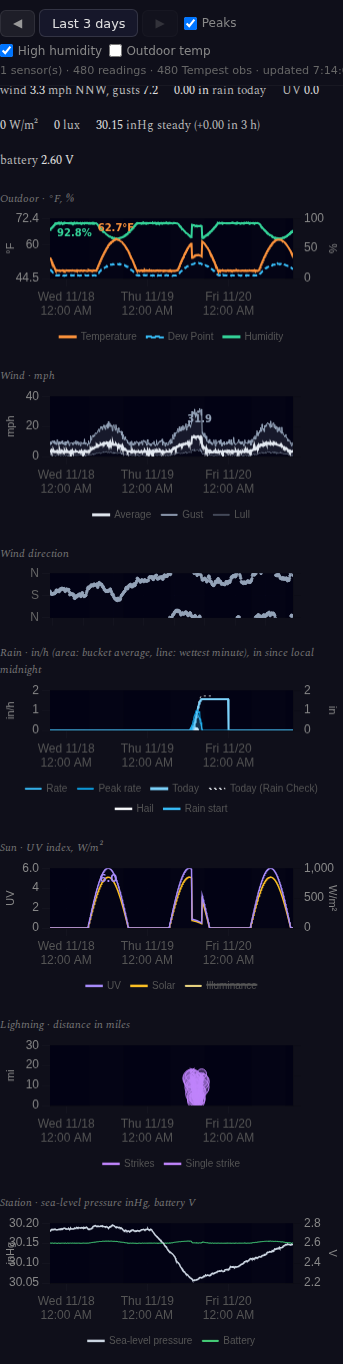
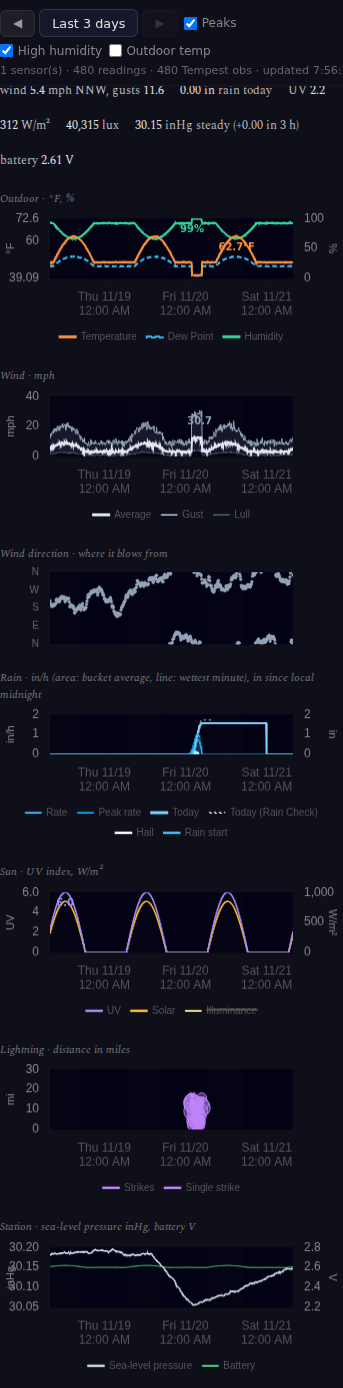
Label every compass point on the wind direction strip; release 1.2.1
The strip's axis used stepSize 180, so Chart.js drew ticks only at 0, 180
and 360 (N, S, N). An easterly sat in the same unlabelled band a
westerly would, which read as northerly or mirrored. The data was right
at every layer: stored, served, downsampled and in the strip text.

- pin the ticks at 0/90/180/270/360 with N, E, S, W, N labels, degrees
  increasing upward; make the strip tall enough for five labels on
  phones
- say the strip shows where the wind blows from, in the label and the
  tooltip ("From: 70° ENE")
- regression tests for the ticks and orientation, and for the vector
  mean on an easterly bucket

diff --git a/frontend/src/tempest-card.js b/frontend/src/tempest-card.js
@@ -31,7 +31,7 @@ export const TEMPEST_COLORS = {
 const LABELS = {
     outdoor: 'Outdoor · °F, %',
     wind: 'Wind · mph',
-    direction: 'Wind direction',
+    direction: 'Wind direction · where it blows from',
     rain: 'Rain · in/h (area: bucket average, line: wettest minute), in since local midnight',
     sun: 'Sun · UV index, W/m²',
     lightning: 'Lightning · distance in miles',
@@ -97,11 +97,18 @@ export function tempestPanelOpts(panel, ar) {
         // A thin strip: direction needs a compass axis, not the speed axis.
         // The wind panel right above labels the shared time axis, so the
         // strip hides its own time labels and gives the height to the plot.
-        aspect = secondaryAspect(ar) * 2.2;
+        // Tall enough for all five compass labels: on a phone that is
+        // about 90 px, on desktop about 100.
+        aspect = ar >= 4 ? secondaryAspect(ar) * 1.8 : ar * 1.6;
         scales.x.ticks = { ...scales.x.ticks, display: false };
+        // Degrees increase upward (N at the bottom, E, S, W, N at the top).
+        // The ticks are pinned: with a step size Chart.js would label only
+        // some cardinal points, and without E and W an easterly and a
+        // westerly look alike.
         scales.yDir = axis('left', '', {
             min: 0, max: 360,
-            ticks: { color: '#666', stepSize: 180, autoSkip: false, callback: (val) => DIRS[val] ?? '' },
+            ticks: { color: '#666', autoSkip: false, font: { size: 10 }, callback: (val) => DIRS[val] ?? '' },
+            afterBuildTicks: (scale) => { scale.ticks = [0, 90, 180, 270, 360].map(value => ({ value })); },
         });
         scales.yDirR = axis('right', '', { display: true, ticks: { display: false }, grid: { drawOnChartArea: false } });
         break;
@@ -185,7 +192,7 @@ export function buildTempestDatasets(panel, s, ev) {
         ];
     case 'direction':
         return [{
-            key: 'direction', label: 'Direction', data: s.windDir, yAxisID: 'yDir', borderColor: TEMPEST_COLORS.windDir, backgroundColor: TEMPEST_COLORS.windDir,
+            key: 'direction', label: 'From', data: s.windDir, yAxisID: 'yDir', borderColor: TEMPEST_COLORS.windDir, backgroundColor: TEMPEST_COLORS.windDir,
             showLine: false, pointRadius: 1.2, pointHoverRadius: 3, noPeaks: true,
             tooltipFormat: (val) => `${Math.round(val)}° ${cardinal(val)}`,
         }];

diff --git a/frontend/src/__tests__/tempest-card.test.js b/frontend/src/__tests__/tempest-card.test.js
@@ -128,3 +128,44 @@ describe('wind direction strip', () => {
         expect(343 / tempestPanelOpts('direction', 2.4).aspectRatio).toBeGreaterThanOrEqual(60);
     });
 });
+
+// Regression: the strip used stepSize 180, so Chart.js drew ticks only at
+// 0/180/360 (N, S, N). An easterly (e.g. 70°) sat in the same unlabelled band
+// a westerly would, a fifth of the way up from "N", which read as northerly
+// or mirrored. Every cardinal point must be labelled.
+describe('wind direction axis', () => {
+    const yDir = () => tempestPanelOpts('direction', 4).scales.yDir;
+
+    it('labels N, E, S, W and N at 0, 90, 180, 270, 360', () => {
+        const scale = { ticks: [{ value: 0 }, { value: 180 }, { value: 360 }] };
+        yDir().afterBuildTicks(scale);
+        const cb = yDir().ticks.callback;
+        expect(scale.ticks.map(t => [t.value, cb(t.value)])).toEqual([
+            [0, 'N'], [90, 'E'], [180, 'S'], [270, 'W'], [360, 'N'],
+        ]);
+    });
+
+    it('increases upward, so east sits below south and west above it', () => {
+        const opts = yDir();
+        expect(opts.reverse).toBeFalsy();
+        expect(opts.min).toBe(0);
+        expect(opts.max).toBe(360);
+    });
+
+    it('says the direction is where the wind blows from', () => {
+        const { section } = render({ enabled: true, station: { name: 'Home' }, observations: [ob(0, { wind_avg_ms: 1, wind_direction_deg: 70 })], latest: null, events: [] });
+        const label = section.querySelector('.tempest-panel[data-panel="direction"] .panel-label').textContent;
+        expect(label).toMatch(/from/i);
+    });
+
+    it('has room for five labels on a phone', () => {
+        // 343 px plot width on a 375 px screen; five 10 px labels need ~85 px.
+        expect(343 / tempestPanelOpts('direction', 2.4).aspectRatio).toBeGreaterThanOrEqual(85);
+    });
+
+    it('tooltips name the compass point the wind comes from', () => {
+        const { panel } = render({ enabled: true, station: { name: 'Home' }, observations: [ob(0, { wind_avg_ms: 1, wind_direction_deg: 70 })], latest: null, events: [] });
+        const ds = panel('direction').chart.data.datasets[0];
+        expect(tooltipLabel({ dataset: ds, raw: ds.data[0], parsed: { y: 70 } })).toBe('From: 70° ENE');
+    });
+});

diff --git a/tempest_capture_test.go b/tempest_capture_test.go
@@ -684,3 +684,23 @@ func TestDownsampleTempest_DailyTotalAcrossMidnightKeepsDayTotal(t *testing.T) {
 		t.Errorf("rain max = %v, want 0.4", ptrVal(got[0].RainMaxMM))
 	}
 }
+
+// Values from a real 9-minute bucket of light easterly wind: the served mean
+// must be the speed-weighted vector mean, ~70.7° (ENE), not mirrored (~290°)
+// or rotated. Pins the sin/cos/atan2 argument order and normalisation.
+func TestVectorMeanDirection_EasterlyBucket(t *testing.T) {
+	dirs := []float64{38, 59, 79, 72, 75, 93, 69, 65, 73}
+	speeds := []float64{0.6, 0.6, 0.9, 0.6, 0.4, 0.6, 0.6, 0.6, 0.8}
+	var recs []tempest.Observation
+	for i := range dirs {
+		recs = append(recs, tempest.Observation{WindDirectionDeg: fp(dirs[i]), WindAvgMS: fp(speeds[i])})
+	}
+	got := vectorMeanDirection(recs)
+	if got == nil || *got < 69 || *got > 72 {
+		t.Errorf("mean = %v, want ~70.7", ptrVal(got))
+	}
+	west := vectorMeanDirection([]tempest.Observation{{WindDirectionDeg: fp(260), WindAvgMS: fp(1)}, {WindDirectionDeg: fp(280), WindAvgMS: fp(1)}})
+	if west == nil || absf(*west-270) > 1e-6 {
+		t.Errorf("west mean = %v, want 270", ptrVal(west))
+	}
+}

diff --git a/README.md b/README.md
@@ -153,7 +153,7 @@ When `WEATHER_LAT`/`WEATHER_LON` are configured, the rooms view also shows:
 When `TEMPEST_TOKEN` is configured, a **Tempest** section follows. Its latest-values strip is built from the newest raw (not downsampled) observation in the range and says "as of" when that is more than 5 minutes old: temperature, humidity, dew point, wind with compass direction and gusts, rain today and current rate, UV, solar radiation, illuminance, recent strikes, sea-level pressure (inHg) with its 3-hour trend, battery. Below it, panels share the dashboard's time axis:
 - **Outdoor**: temperature, dew point, humidity on the same °F and % axes as the room charts, so outdoor and indoor line up
 - **Wind**: average (mph) inside a shaded lull–gust band
-- **Wind direction**: a thin strip of dots on a compass axis (none in calm air)
+- **Wind direction**: a thin strip of dots for where the wind blows from, on a compass axis that increases upward with N, E, S, W and N labelled (no dot in calm air)
 - **Rain**: rate (in/h) as an area, the wettest single minute as a line so peaks survive downsampling, the total since local midnight and its Rain Check correction, hail, and rain-start markers
 - **Sun**: UV index and solar radiation (W/m²); illuminance is in the legend, hidden by default
 - **Lightning**: average strike distance per bucket, sized by strike count, plus each individual strike; collapses to a one-line note when there were none
